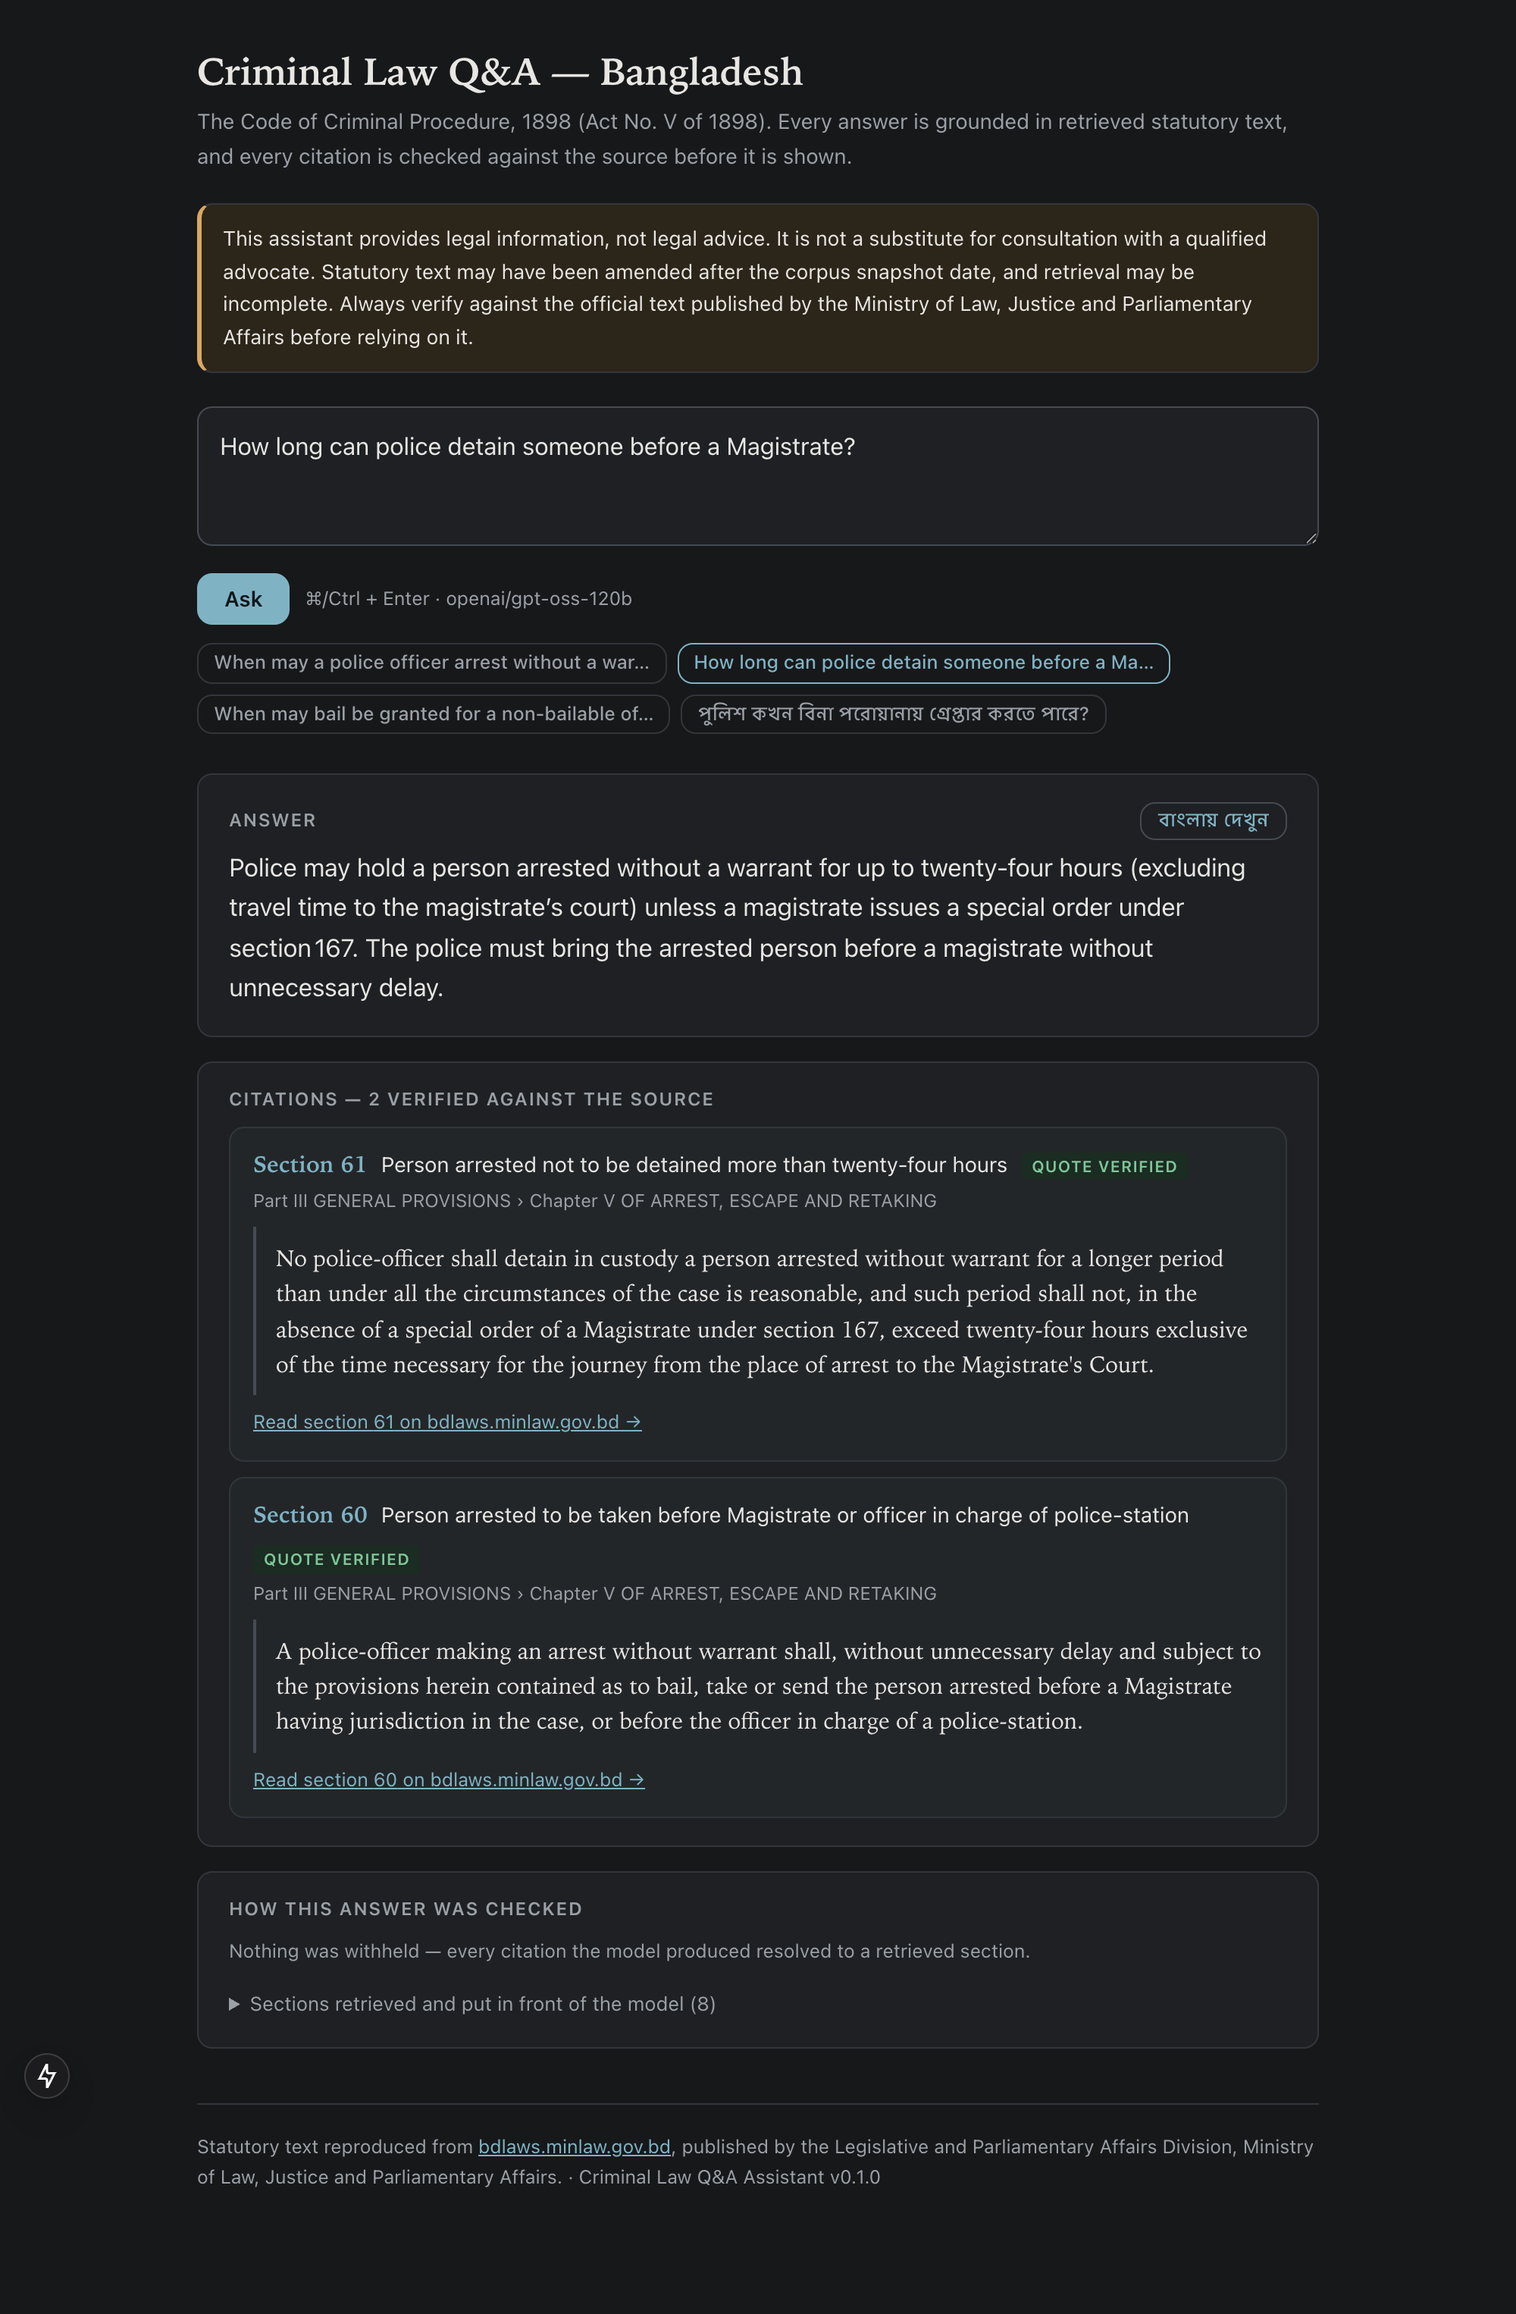
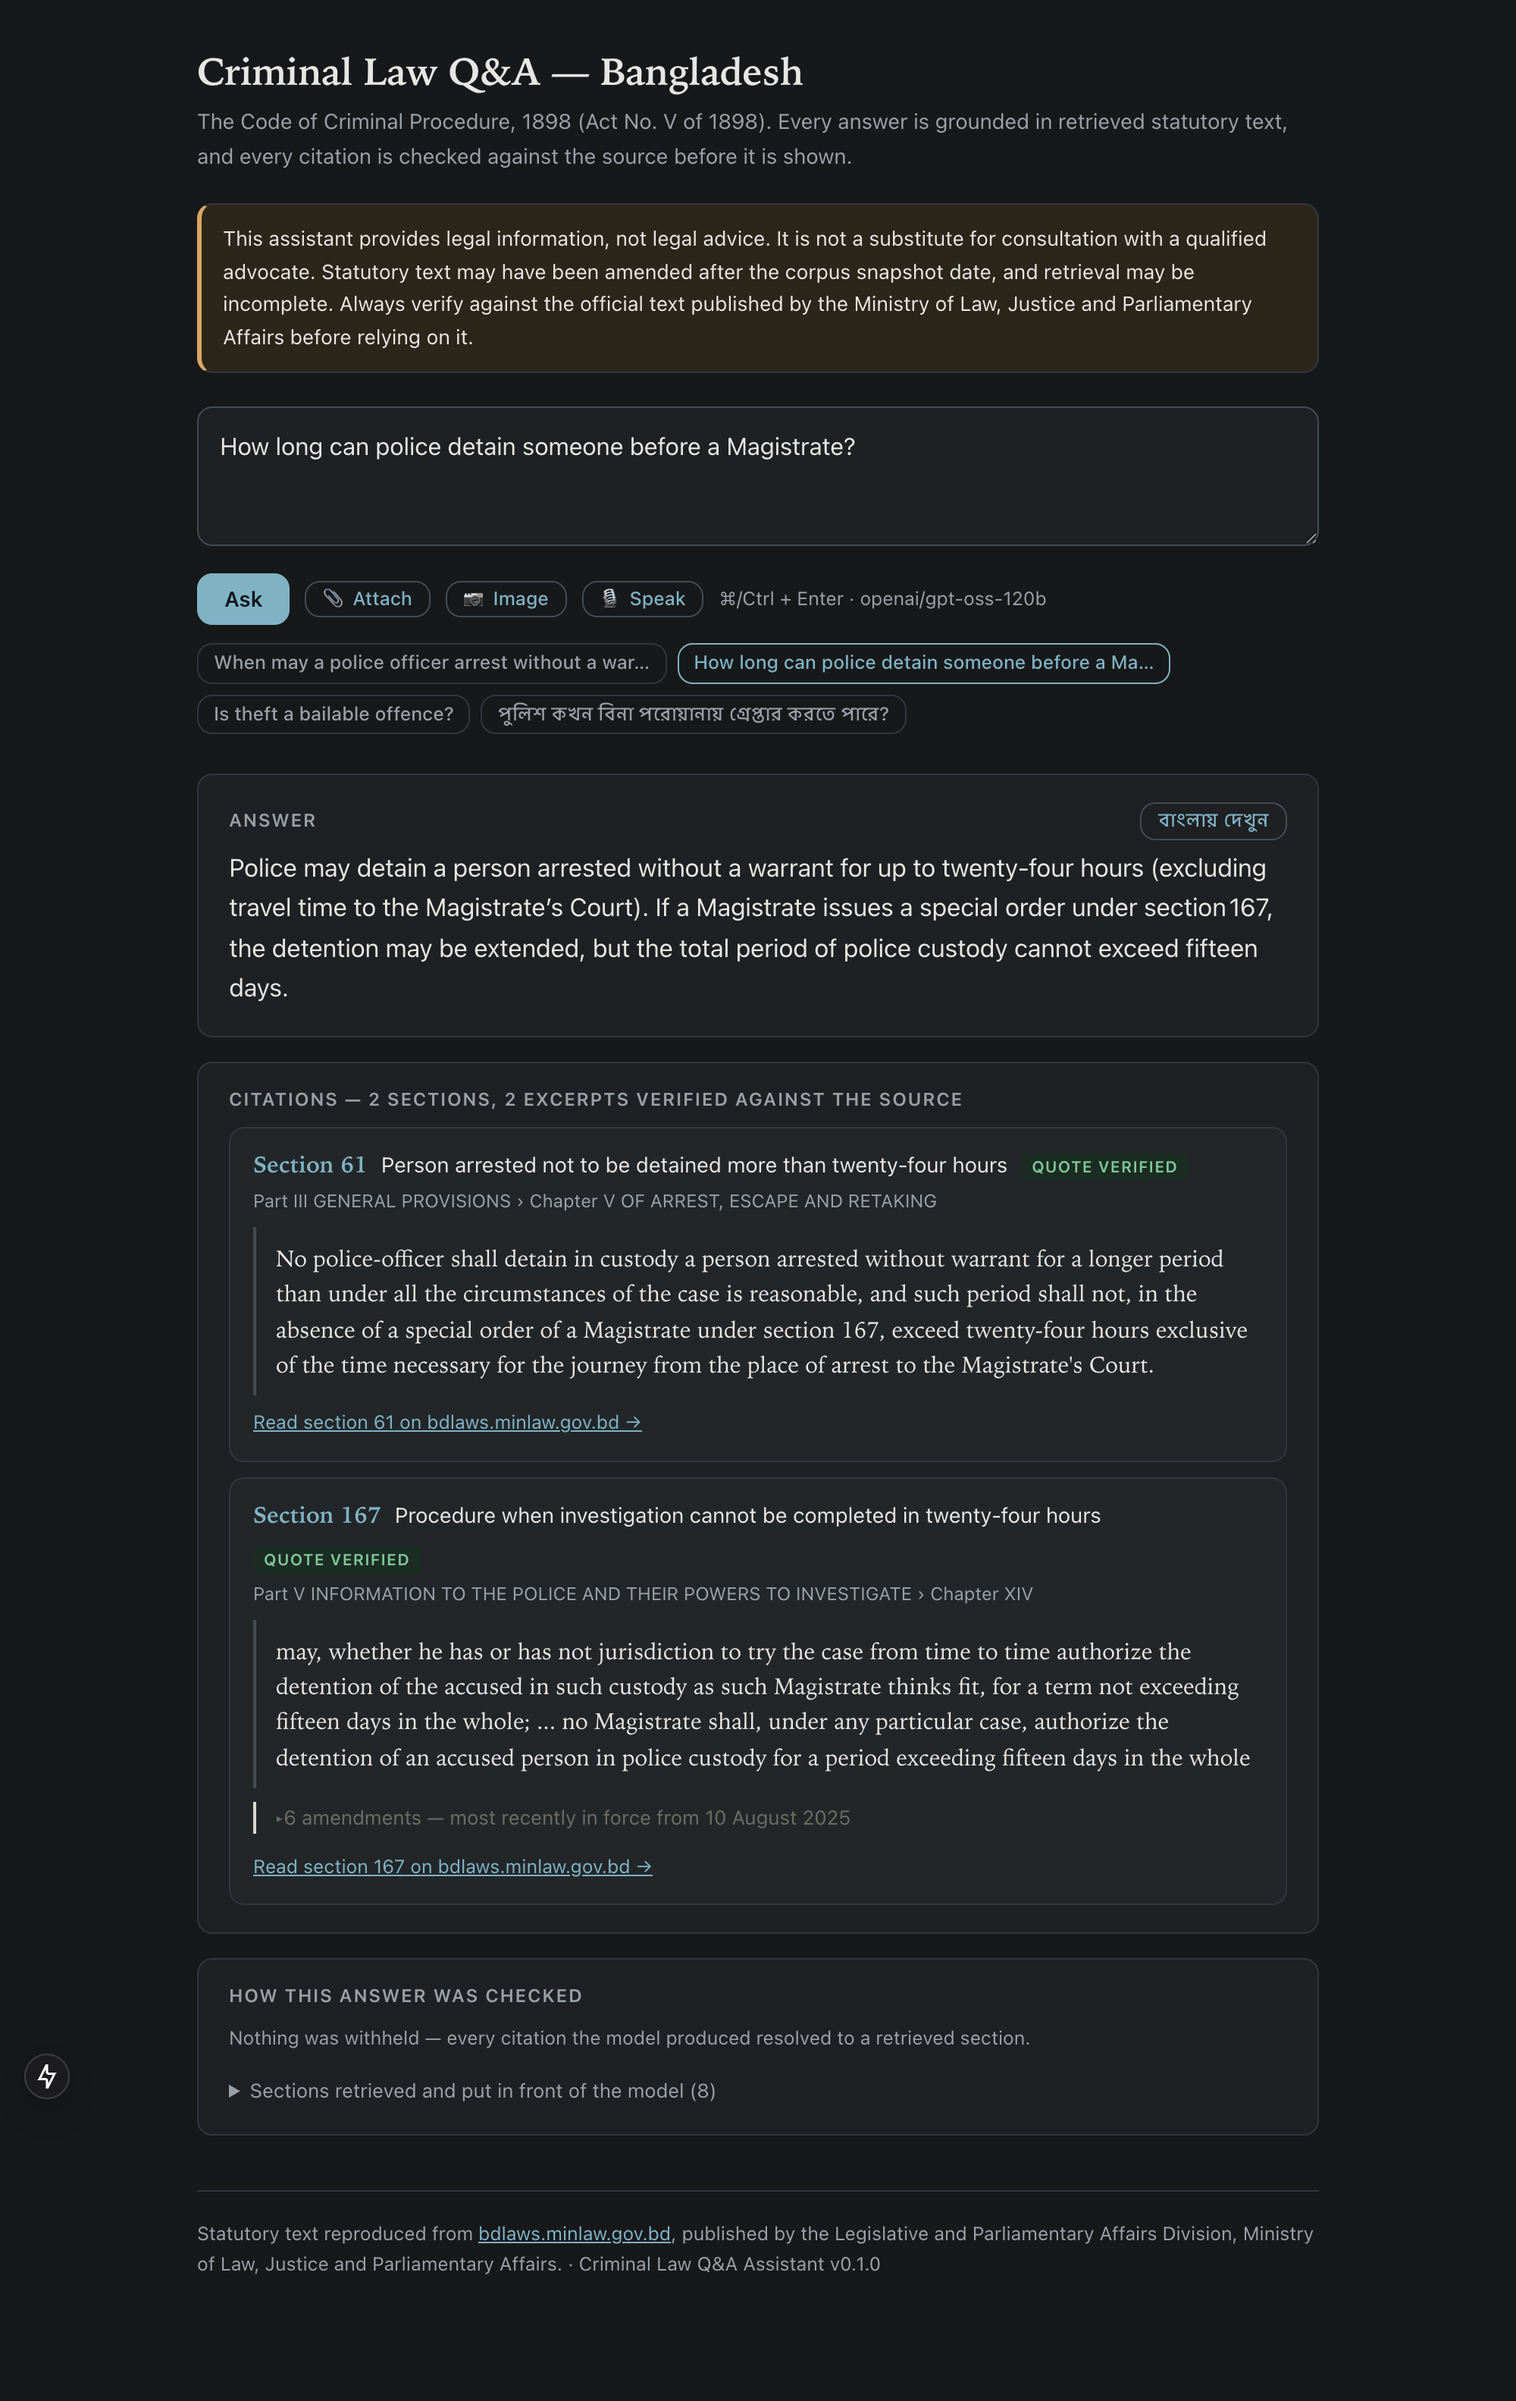
feat(frontend): group citations by section, and show the amendment history
Two changes, the second found by looking at the screenshot the first produced.

Every citation now carries the amendments that produced the section's current
wording — operation, effective date, and a link to the amending act. Section 54
comes back noting it was substituted by Act XI of 2026 with effect from 10
August 2025, which the current text does not say and which decides whether the
section governs a matter that arose before that date.

The screenshot then showed section 54 three times, as three citation cards, each
repeating the same heading, the same part and chapter path, the same bdlaws link
and the same amendment block. They are three verified excerpts from one long
section — the section is split into chunks, so the model can quote several parts
of it — but rendered as peers they read as three provisions, and the heading
said "3 citations".

Citations now group by the section they cite: one card, several excerpts, one
amendment history, and a count that says what it means — "1 section, 3 excerpts
verified against the source". A lawyer reads in sections; the excerpts are
evidence under a section, not peers of it.

All five screenshots regenerated against the running application.

diff --git a/frontend/app/page.tsx b/frontend/app/page.tsx
@@ -6,6 +6,7 @@ import {
   API_URL,
   type Amendment,
   type AskResponse,
+  type Citation,
   type Meta,
   type ImageText,
   type Transcription,
@@ -37,6 +38,55 @@ function amendmentSummary(amendments: Amendment[]): string {
   return latest
     ? `${label} — most recently in force from ${formatDate(latest.effective_from!)}`
     : `${label} — no effective date stated`;
+}
+
+/**
+ * One card per cited section, not per quotation.
+ *
+ * A long section is split into several chunks, so the model can verify two or
+ * three separate excerpts from the same provision. Rendered one card each, the
+ * list repeats the section heading, the part and chapter path, the bdlaws link
+ * and the whole amendment history identically for each — and "3 citations" reads
+ * as three provisions when it is one. A lawyer reads in sections; the excerpts
+ * are the evidence under a section, not peers of it.
+ */
+interface CitedSection {
+  key: string;
+  section: string;
+  source: string;
+  marginal_note: string;
+  part: string | null;
+  chapter: string | null;
+  source_url: string;
+  amendments: Amendment[];
+  quotes: string[];
+  verified: number;
+}
+
+function groupBySection(citations: Citation[]): CitedSection[] {
+  const bySection = new Map<string, CitedSection>();
+  for (const c of citations) {
+    const key = `${c.source}:${c.section}`;
+    let entry = bySection.get(key);
+    if (!entry) {
+      entry = {
+        key,
+        section: c.section,
+        source: c.source,
+        marginal_note: c.marginal_note,
+        part: c.part,
+        chapter: c.chapter,
+        source_url: c.source_url,
+        amendments: c.amendments ?? [],
+        quotes: [],
+        verified: 0,
+      };
+      bySection.set(key, entry);
+    }
+    if (c.quote && !entry.quotes.includes(c.quote)) entry.quotes.push(c.quote);
+    if (c.quote_verified) entry.verified += 1;
+  }
+  return [...bySection.values()];
 }
 
 const EXAMPLES = [
@@ -419,14 +469,20 @@ export default function Page() {
             )}
           </section>
 
-          {result.citations.length > 0 && (
+          {result.citations.length > 0 && (() => {
+            const sections = groupBySection(result.citations);
+            const excerpts = sections.reduce((n, s) => n + s.quotes.length, 0);
+            return (
             <section className="panel">
               <h2>
-                Citations — {result.citations.length} verified against the source
+                Citations — {sections.length}{" "}
+                {sections.length === 1 ? "section" : "sections"}, {excerpts}{" "}
+                {excerpts === 1 ? "excerpt" : "excerpts"} verified against the
+                source
                 {showTranslation && " · quoted text stays in English"}
               </h2>
-              {result.citations.map((citation) => (
-                <article className="cite" key={`${citation.section}-${citation.quote}`}>
+              {sections.map((citation) => (
+                <article className="cite" key={citation.key}>
                   <div className="cite-head">
                     <span className="cite-num">
                       {citation.source === "ScheduleII"
@@ -435,11 +491,13 @@ export default function Page() {
                     </span>
                     <span className="cite-note">{citation.marginal_note}</span>
                     <span
-                      className={`badge ${citation.quote_verified ? "ok" : "no"}`}
+                      className={`badge ${citation.verified > 0 ? "ok" : "no"}`}
                     >
-                      {citation.quote_verified
-                        ? "quote verified"
-                        : "no verified quote"}
+                      {citation.verified === 0
+                        ? "no verified quote"
+                        : citation.verified === 1
+                          ? "quote verified"
+                          : `${citation.verified} quotes verified`}
                     </span>
                   </div>
                   {(citation.part || citation.chapter) && (
@@ -449,7 +507,9 @@ export default function Page() {
                         .join(" › ")}
                     </div>
                   )}
-                  {citation.quote && <blockquote>{citation.quote}</blockquote>}
+                  {citation.quotes.map((quote) => (
+                    <blockquote key={quote}>{quote}</blockquote>
+                  ))}
                   {citation.amendments?.length > 0 && (
                     <details className="amend">
                       <summary>
@@ -493,7 +553,8 @@ export default function Page() {
                 </article>
               ))}
             </section>
-          )}
+            );
+          })()}
 
           {(result.dropped_citations.length > 0 ||
             result.retrieved_sections.length > 0) && (

diff --git a/README.md b/README.md
@@ -49,6 +49,16 @@ The answer is translated on demand; the statutory excerpts stay in English, beca
 each is shown with a claim that it appears verbatim in the source and a link to check
 it. Four citations, all verified, with the part and chapter each sits under.
 
+**Every citation carries how and when the section changed**
+
+![Section 54 with its amendment history, linking to the amending act](docs/screenshots/05-amendment-provenance.png)
+
+Section 54 reads as it does because Act XI of 2026 substituted it, with effect from 10
+August 2025. The current wording does not say that, and whether this section governs a
+matter depends on when the matter arose. Citations group by section — three verified
+excerpts from section 54 are three pieces of evidence for one provision, not three
+provisions.
+
 **An English answer with its citations checked**
 
 ![An English answer with verified citations](docs/screenshots/02-answer-verified-citations.png)
